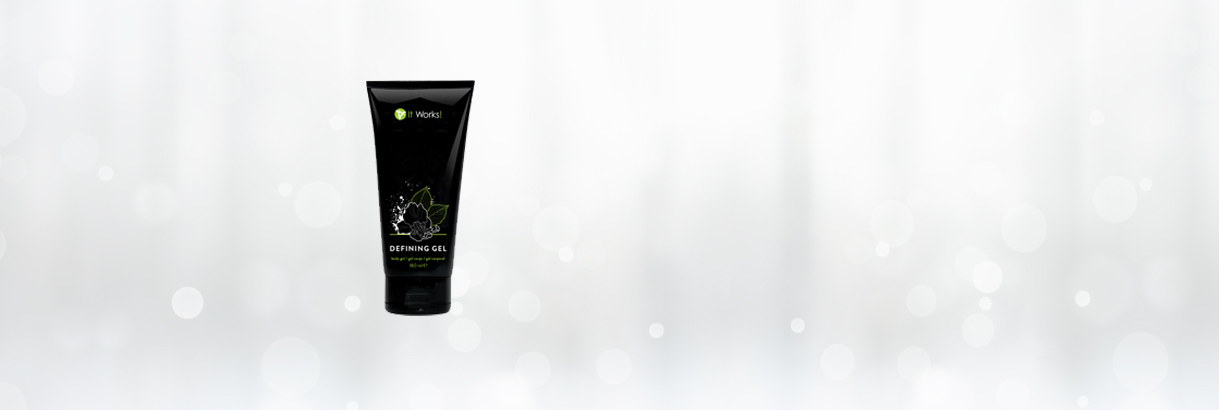
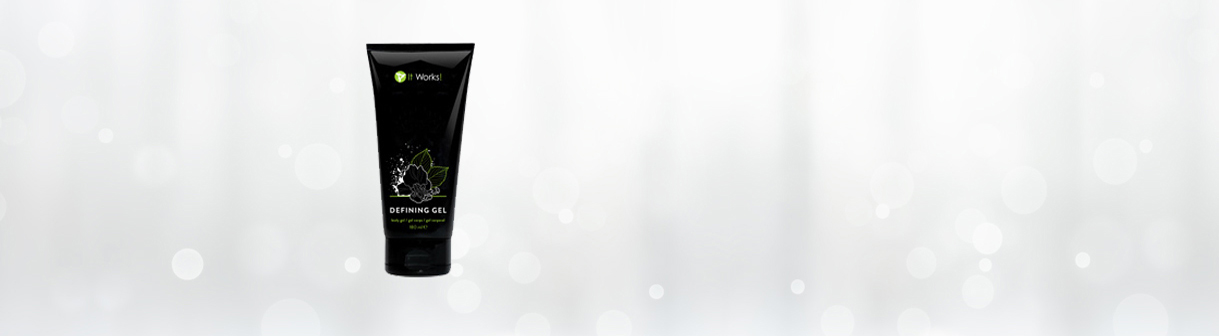
diminution hauteur carousel produit et changement police de navbar brand

Changed region(s): [[0.2806, 0.119, 0.4053, 0.3869], [0.3117, 0.4464, 0.3741, 0.7143], [0.3117, 0.744, 0.3741, 0.8333]]

diff --git a/app/styles/style.css b/app/styles/style.css
@@ -54,6 +54,7 @@ h3{
 
 .carousel{
 	padding :0px;
+	box-shadow: 0px 0px 20px rgba(0,0,0,0.2);
 }
 
 .carousel-indicators li{
@@ -89,6 +90,7 @@ h3{
 	height : 85px;
 	margin-bottom: 0px;
 	border-radius: 0px;
+	z-index:100;
 }
 
 .navbar a{
@@ -98,7 +100,6 @@ h3{
 .navbar-inverse .navbar-brand, .navbar-brand a, .navbar-brand a:hover{
 	font-family: 'Abril Fatface', cursive;
 	font-size: 32px;
-	margin-top : 7px;
 	color: white;
 }
 
@@ -106,8 +107,8 @@ h3{
 	font-family: 'Abel', sans-serif;
 	font-size: 18px;
 	color: #99CC33;	
-	line-height: 2;
-	padding-left: 2px;
+	line-height: 2.3;
+	padding-left: 3px;
 }
 
 .navbar-nav{
@@ -132,7 +133,7 @@ h3{
 /*----------------------------------------------------PAGE ACCUEIL----------------------------------------*/
 
 .categorie-produits{
-	background-color: rgba(250,250,250,0.5);
+	background-color: rgba(250,250,250,0.6);
 	padding: 10px;
 	padding-bottom: 20px;
 	border: 5px #F3F3F3 solid;
@@ -157,10 +158,10 @@ h3{
 
 .carousel-caption{
 	left : 48%;
-	top : 80px;
 	text-align: left;
 	height : 300px;
 	color : grey;
+	padding: 0px;
 }
 
 .carousel-caption h2{
@@ -188,7 +189,7 @@ h3{
 	margin-bottom: 20px;
 	list-style:none;
 	padding : 30px 0px;
-	background-color: rgba(250,250,250,0.5);
+	background-color: rgba(250,250,250,0.6);
 	border-radius: 10px;
 }
 
@@ -239,7 +240,7 @@ h3{
 	margin-top: 20px;				
 	margin-bottom: 20px;
 	padding : 10px 0px;
-	background-color: rgba(250,250,250,0.5);
+	background-color: rgba(250,250,250,0.6);
 	border-radius: 10px;
 }
 /*---------------------------------------------PAGE QUI-SOMMES-NOUS ?---------------------------------------*/

diff --git a/app/contact.html b/app/contact.html
@@ -3,7 +3,7 @@
 	<head>
 		<title>Wrap it Baby - Contactez-moi</title>
 		<meta charset="utf-8">		
-		<link href='https://fonts.googleapis.com/css?family=Lobster' rel='stylesheet' type='text/css'>
+		<link href='https://fonts.googleapis.com/css?family=Abril+Fatface' rel='stylesheet' type='text/css'>
 		<link href='https://fonts.googleapis.com/css?family=Abel' rel='stylesheet' type='text/css'>
 		<link rel="stylesheet" href="styles/bootstrap.min.css">
 		<link rel="stylesheet" href="styles/style.css">

diff --git a/app/index.html b/app/index.html
@@ -4,7 +4,7 @@
 		<title>Wrap it Baby!</title>
 		<meta charset="utf-8">
 		<link rel="stylesheet" href="styles/bootstrap.min.css">
-		<link href='https://fonts.googleapis.com/css?family=Lobster' rel='stylesheet' type='text/css'>
+		<link href='https://fonts.googleapis.com/css?family=Abril+Fatface' rel='stylesheet' type='text/css'>
 		<link href='https://fonts.googleapis.com/css?family=Abel' rel='stylesheet' type='text/css'>
 		<link rel="stylesheet" href="styles/style.css">
 	</head>

diff --git a/app/qui-sommes-nous.html b/app/qui-sommes-nous.html
@@ -4,7 +4,7 @@
 		<title>Wrap it Baby!</title>
 		<meta charset="utf-8">
 		<link rel="stylesheet" href="styles/bootstrap.min.css">
-		<link href='https://fonts.googleapis.com/css?family=Lobster' rel='stylesheet' type='text/css'>
+		<link href='https://fonts.googleapis.com/css?family=Abril+Fatface' rel='stylesheet' type='text/css'>
 		<link href='https://fonts.googleapis.com/css?family=Abel' rel='stylesheet' type='text/css'>
 		<link rel="stylesheet" href="styles/style.css">
 	</head>

diff --git a/app/temoignages.html b/app/temoignages.html
@@ -4,7 +4,7 @@
 		<title>Wrap it Baby!</title>
 		<meta charset="utf-8">
 		<link rel="stylesheet" href="styles/bootstrap.min.css">
-		<link href='https://fonts.googleapis.com/css?family=Lobster' rel='stylesheet' type='text/css'>
+		<link href='https://fonts.googleapis.com/css?family=Abril+Fatface' rel='stylesheet' type='text/css'>
 		<link href='https://fonts.googleapis.com/css?family=Abel' rel='stylesheet' type='text/css'>
 		<link rel="stylesheet" href="styles/style.css">
 	</head>
